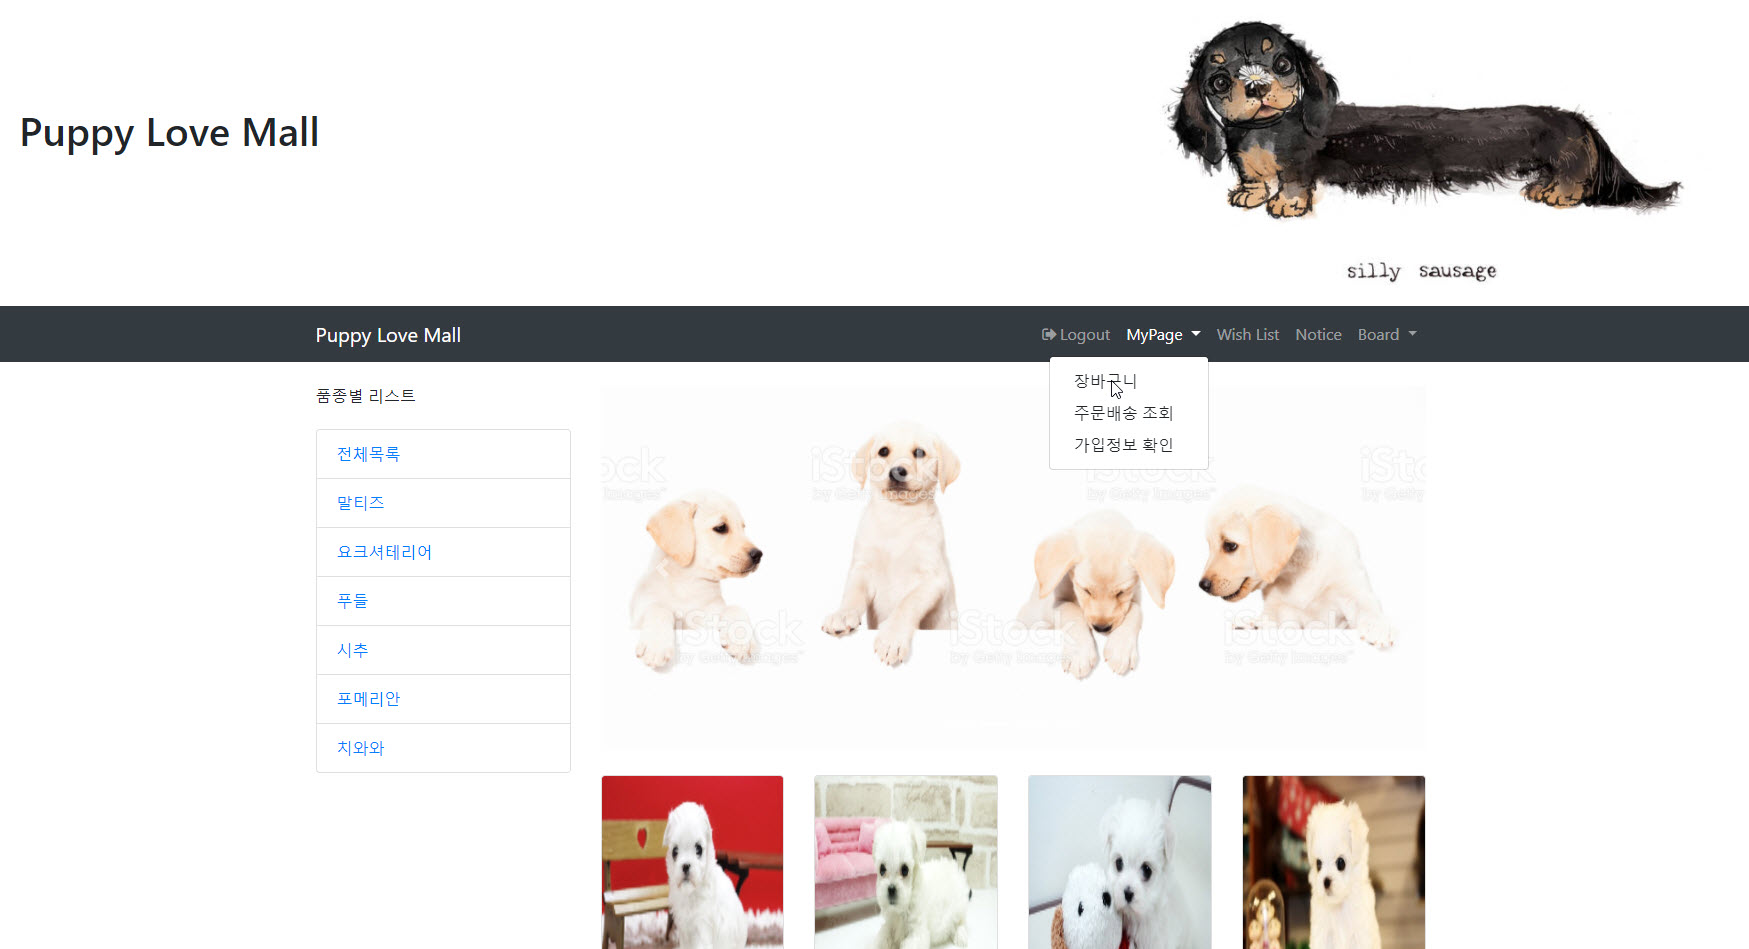
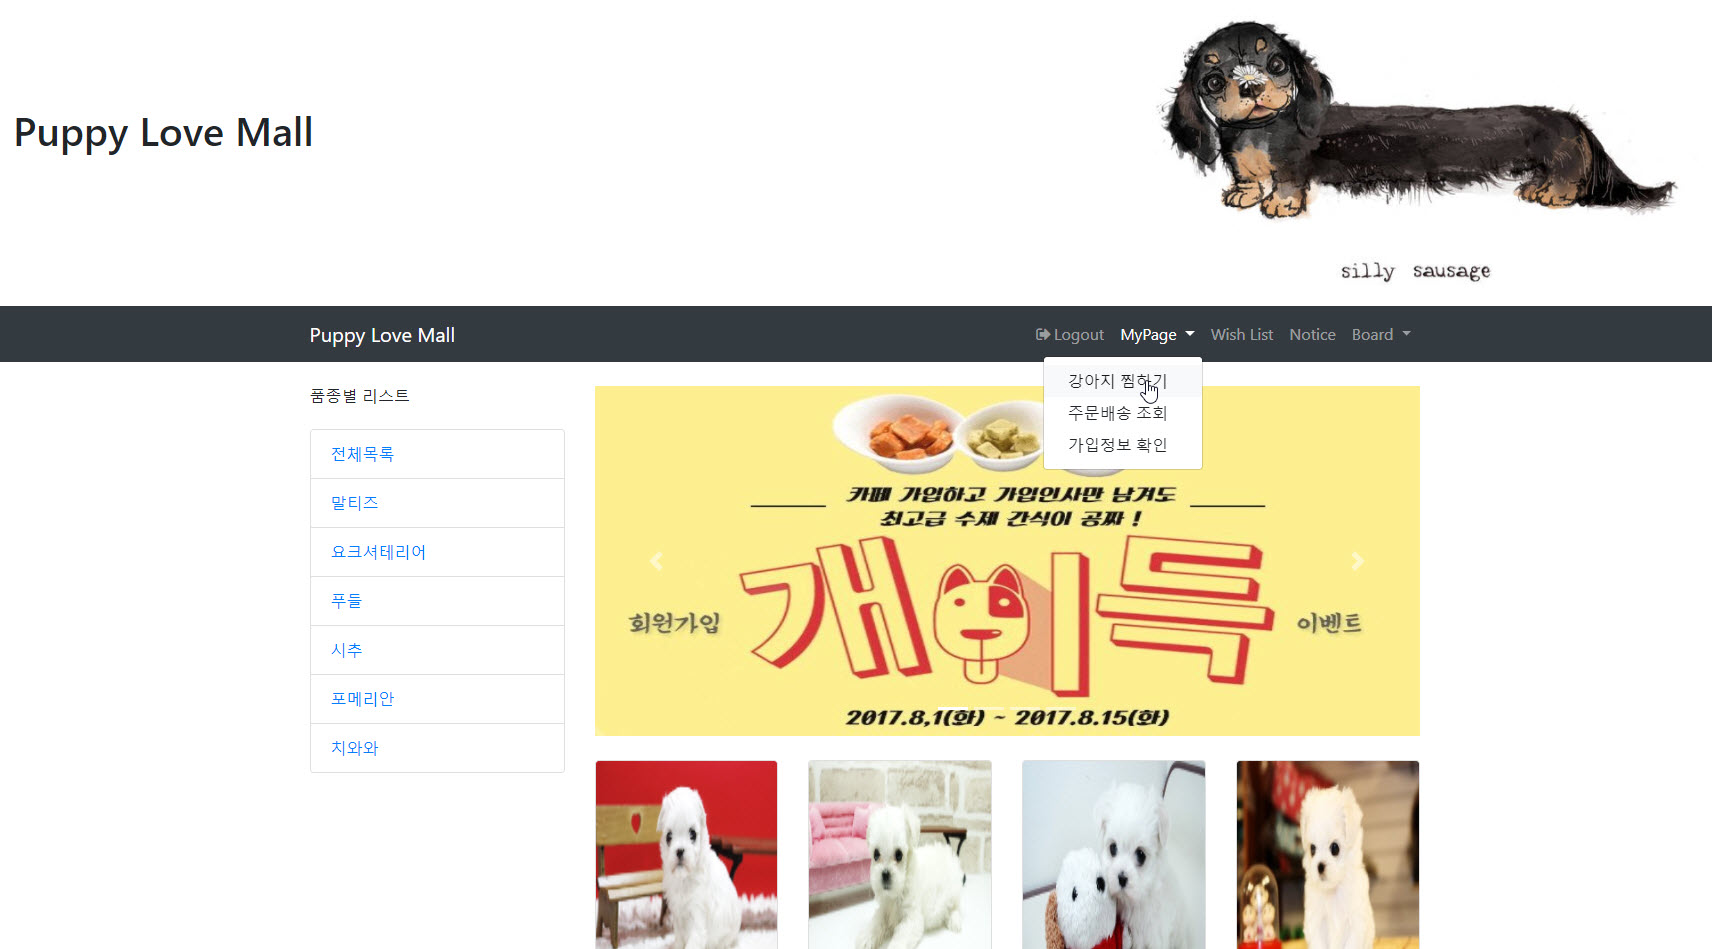
mypage수정

diff --git a/README.md b/README.md
@@ -48,7 +48,7 @@
 <img src="/img/mypageList.jpg" width="90%" height="90%">
 <h4>Dropdown사용</h4>
 <ul>
-	<li><h4>장바구니</h4></li>
+	<li><h4>강아지 찜하기</h4></li>
 	<li><h4>주문배송 조회</h4></li>
 	<li><h4>가입정보 확인</h4></li>
 </ul>
